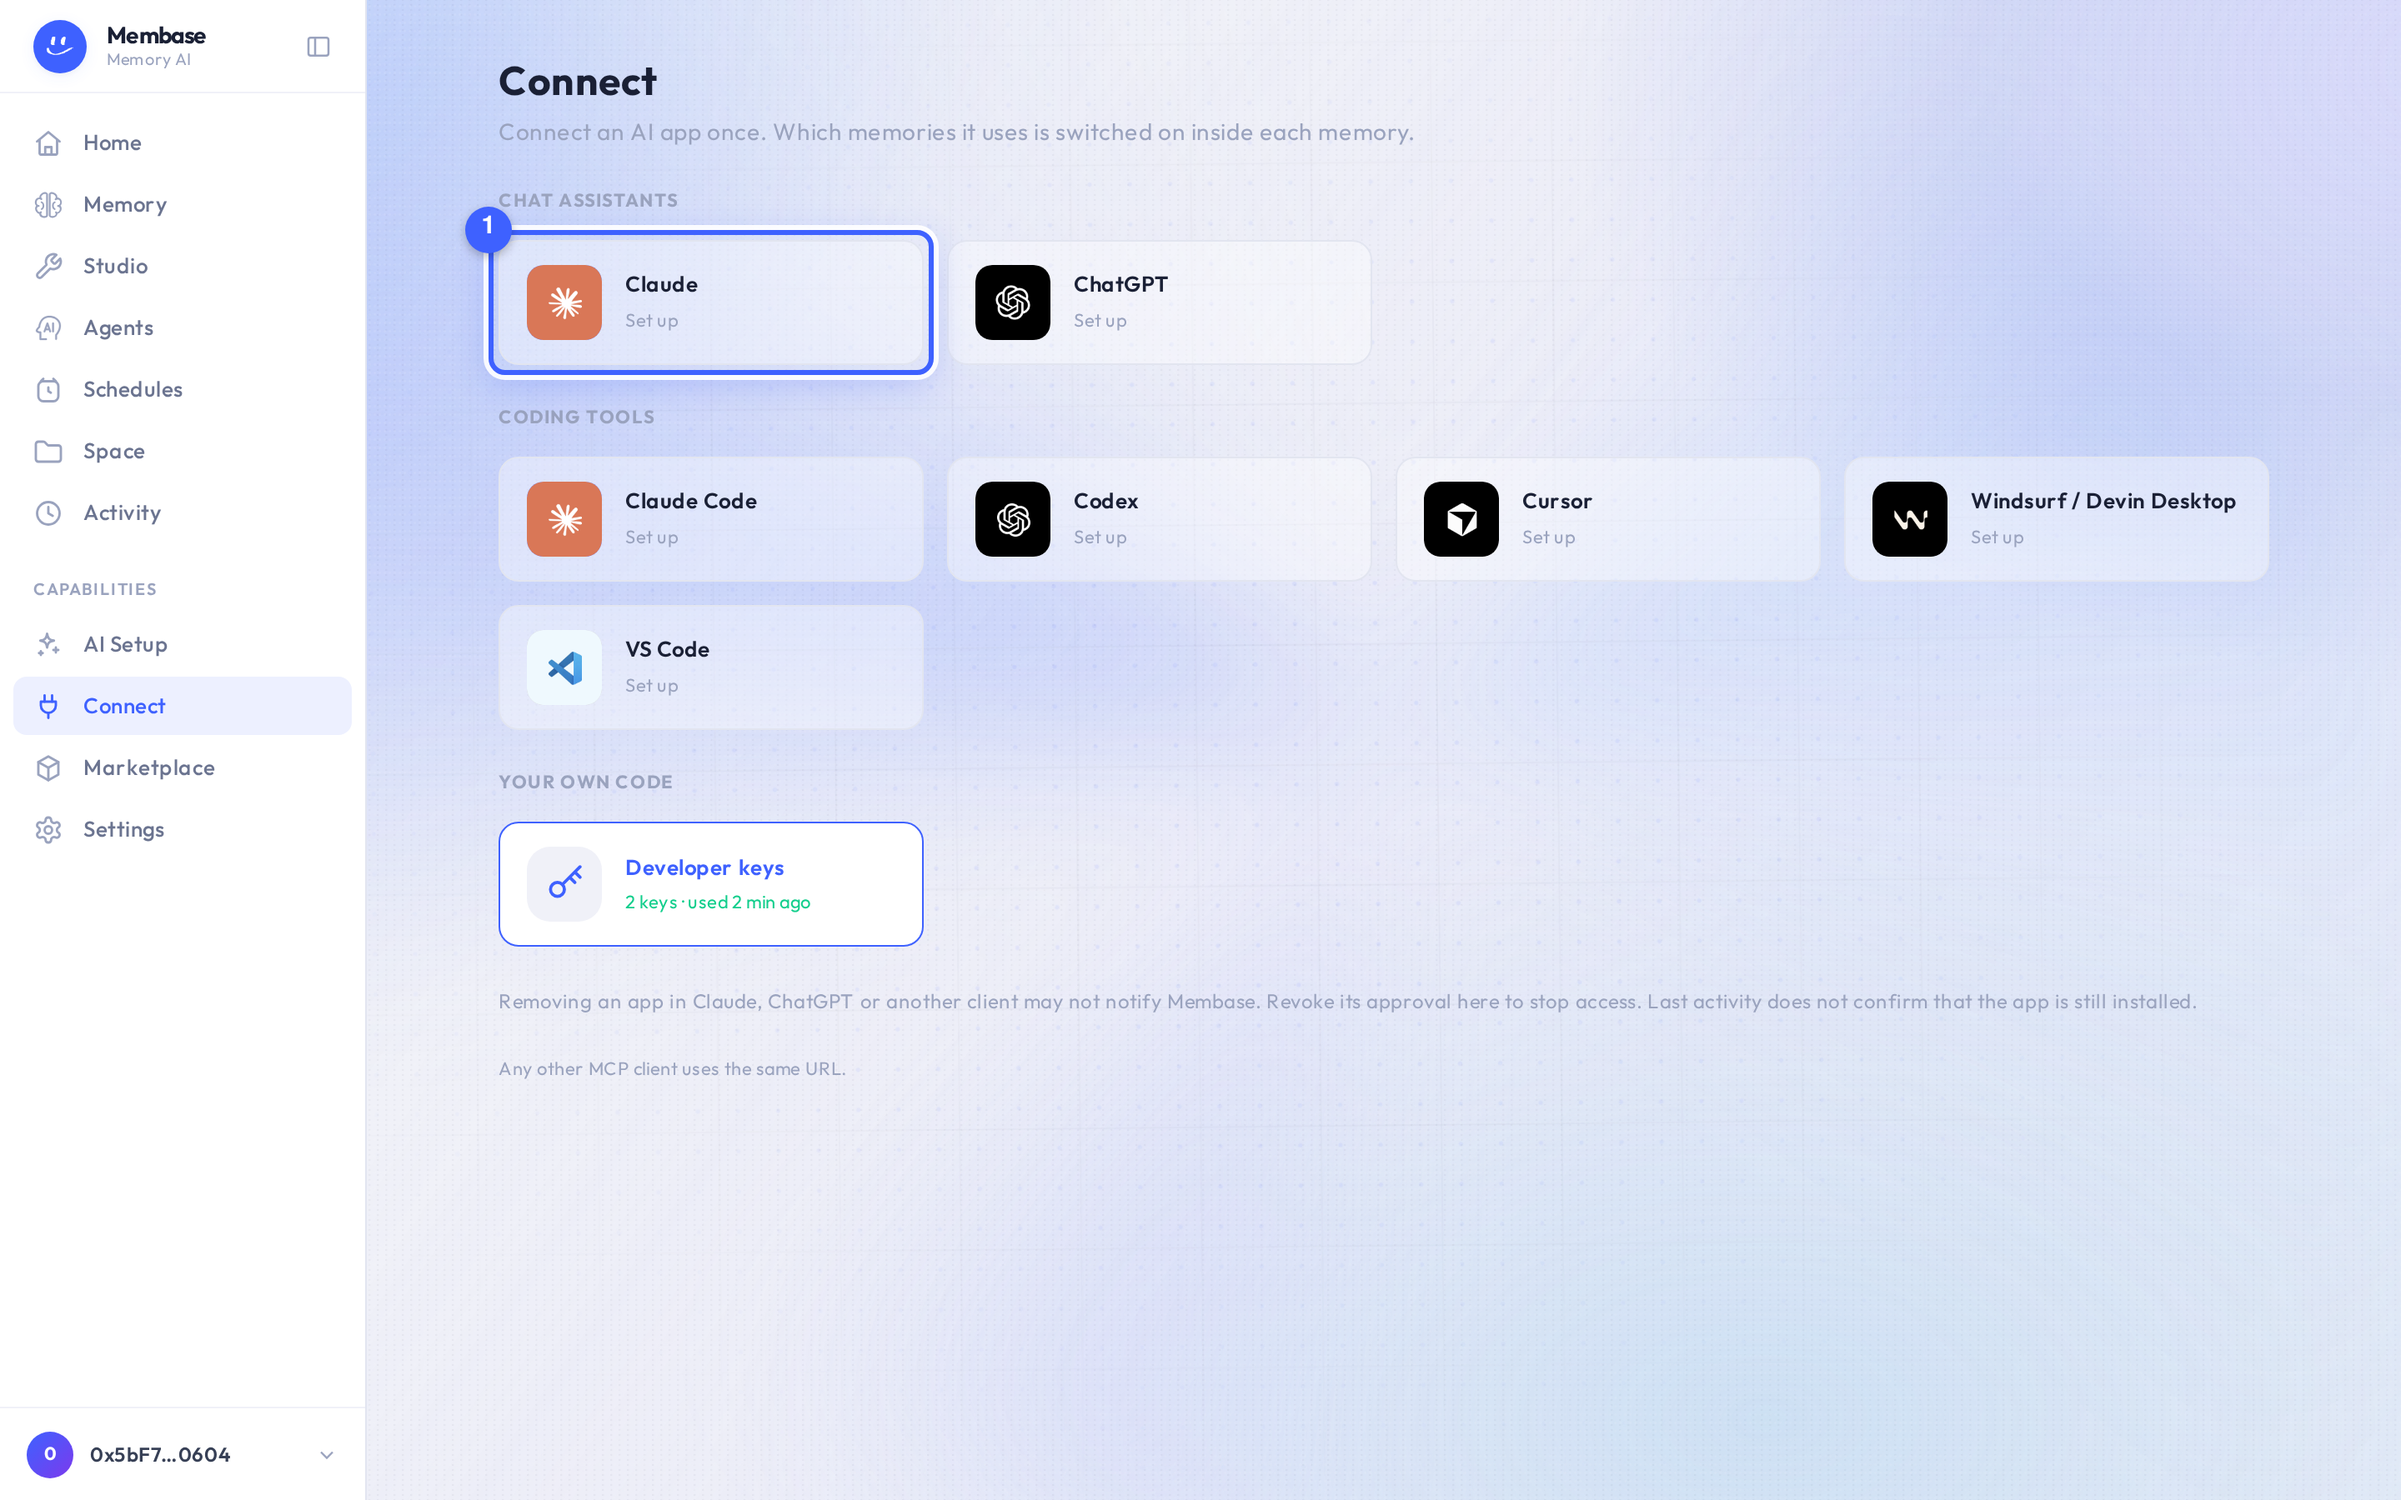
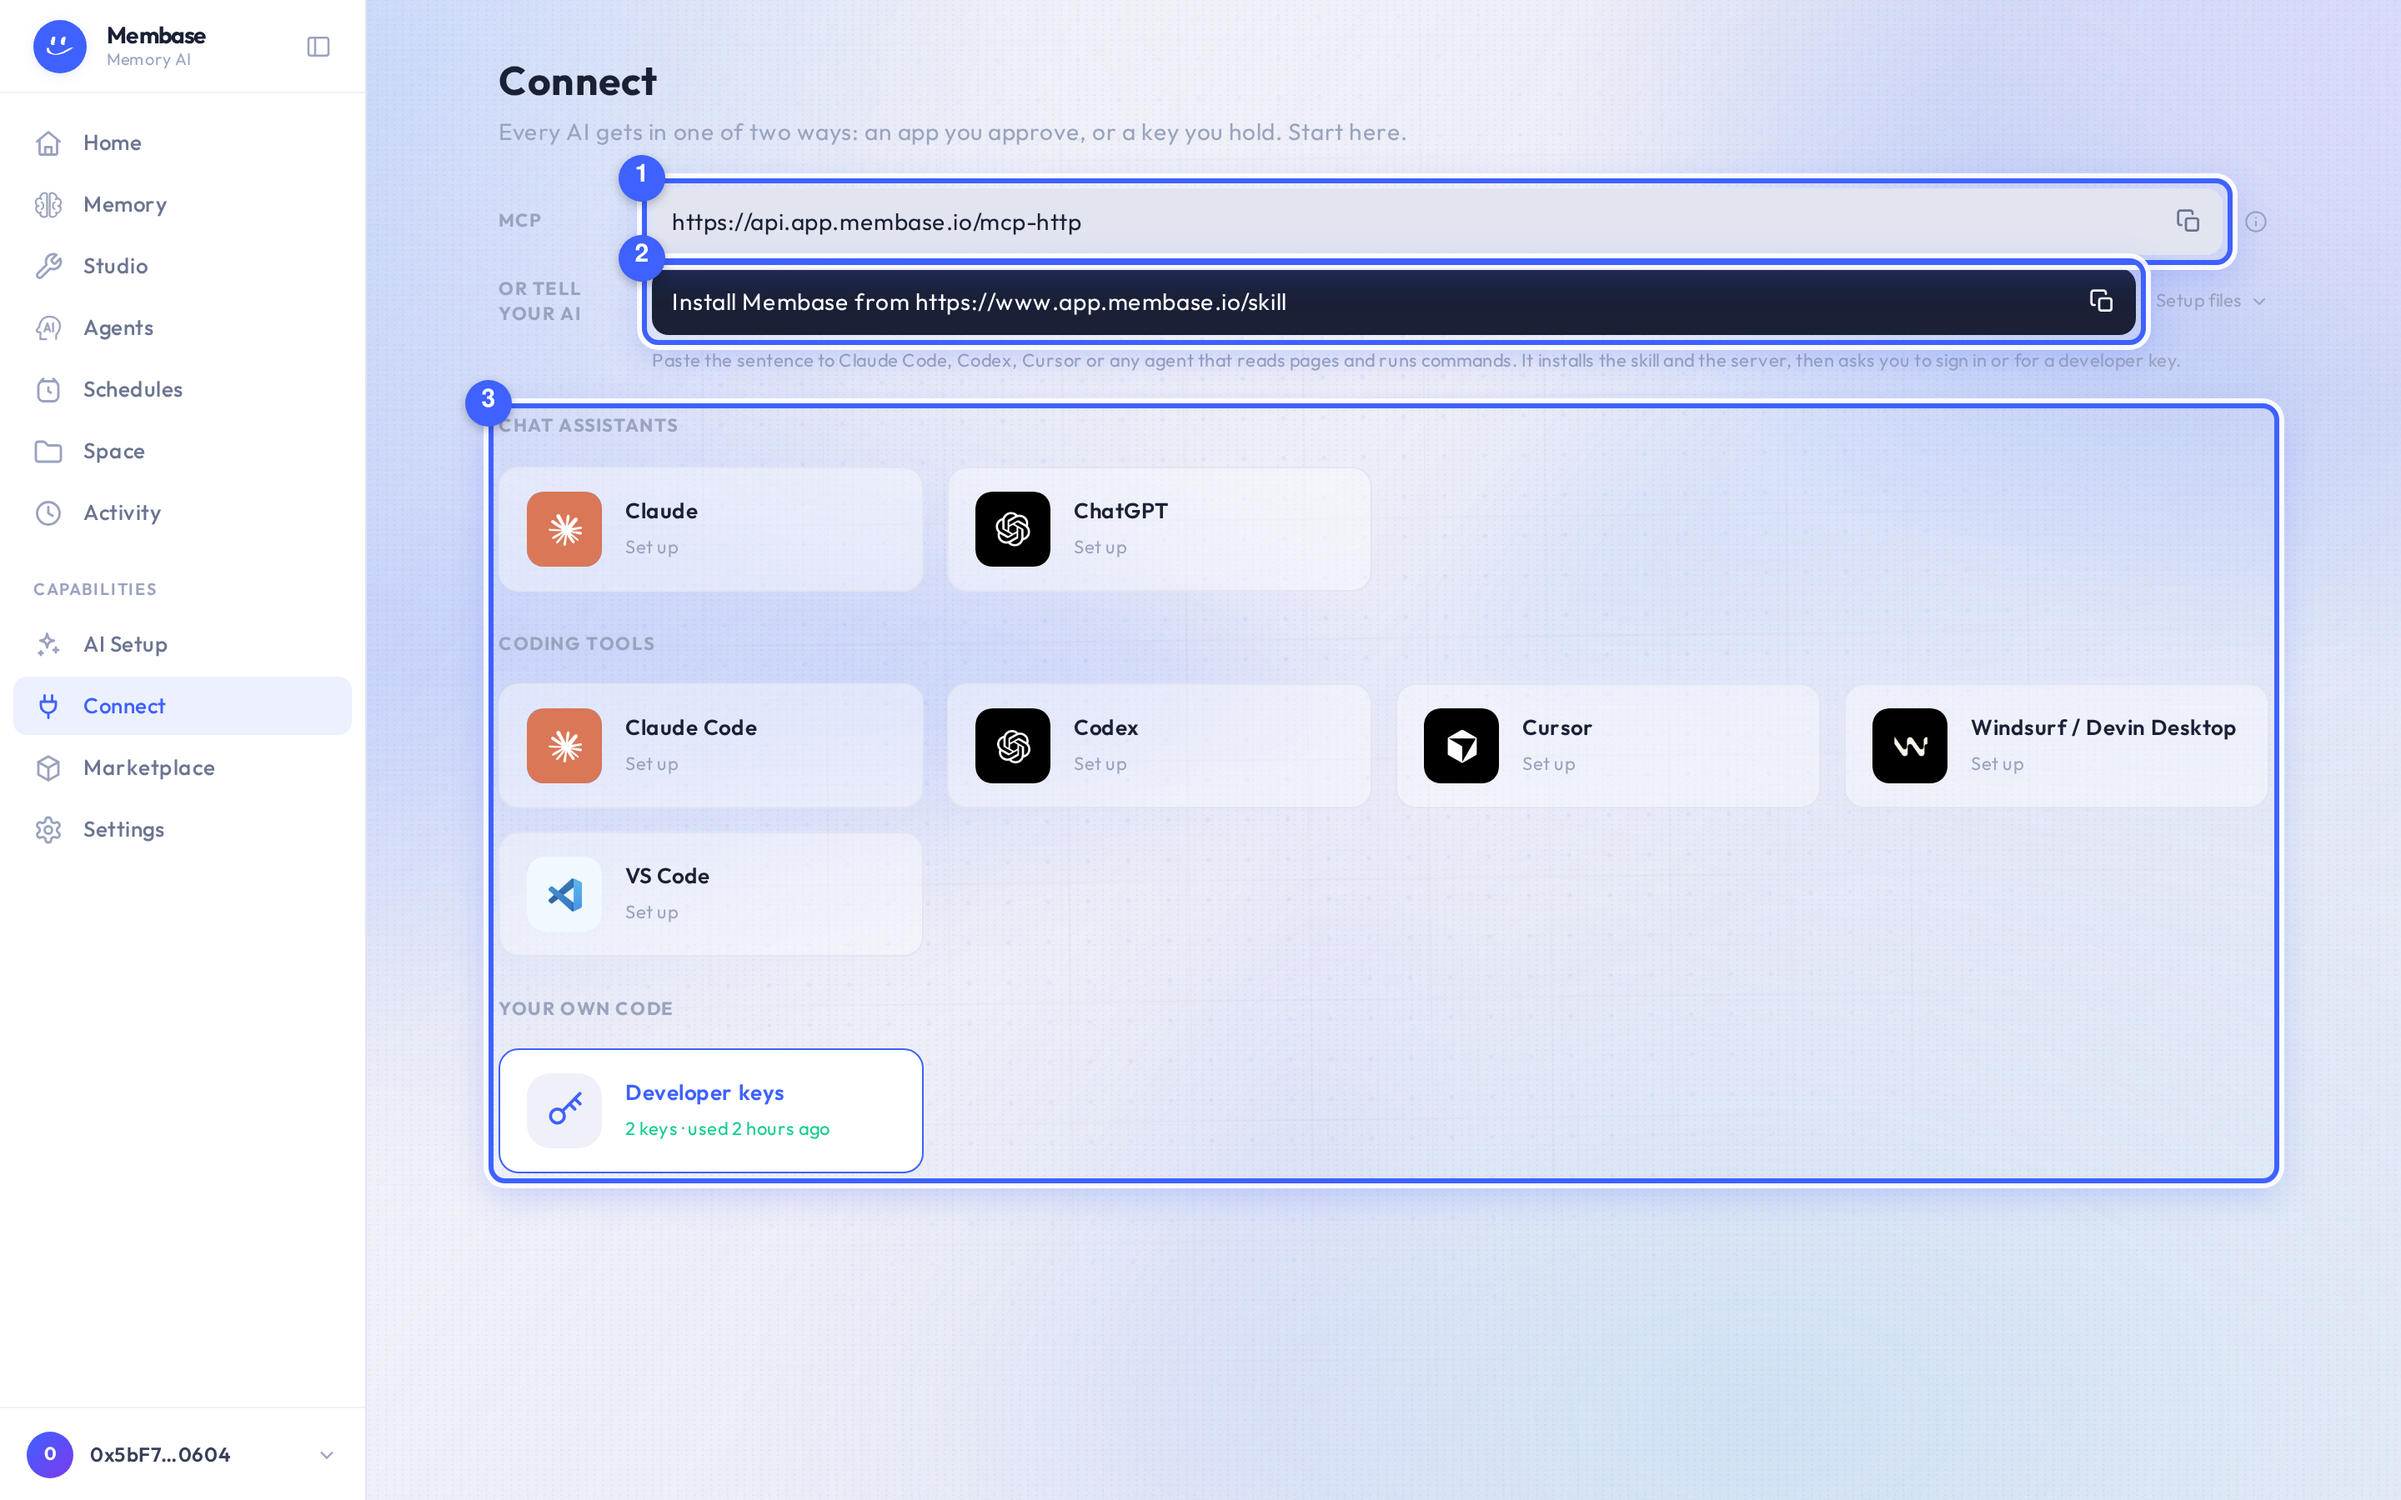
Sync user guide from membase-suites a6c4f371

diff --git a/pages/connect.md b/pages/connect.md
@@ -1,12 +1,47 @@
 # Connect
 
-Connect is where AI apps get permission to read your memories.
+Connect is where an AI gets permission to read your memories. Every AI gets in one of two ways:
+an **app you approve** in your browser, or a **developer key you hold**. The page is laid out in
+that order — the two ways to reach the door at the top, the approvals below.
 
 ![Connect](../shots/connect-page.png)
 
-1. **The client catalog, by purpose.** *Chat assistants* and *Coding tools*. A dashed tile says
-   *Set up*; a solid tile says *Connected* with the time of its last recall and opens the app's
-   page.
+1. **The address.** The MCP server every client uses. Copy it into an app's connector or MCP
+   settings when you set the app up by hand (the tiles below give the steps).
+2. **Or tell your AI.** One sentence — *Install Membase from https://www.app.membase.io/skill* —
+   for an AI that can read a page and run commands (Claude Code, Codex, Cursor, Windsurf…).
+   Paste it into the AI: it installs the Membase skill and the server itself, then asks you to
+   sign in or for a developer key. Neither the address nor the sentence grants anything; the
+   AI still ends up on one of the two approvals below.
+3. **The client catalog, by purpose.** *Chat assistants* and *Coding tools*. A dashed tile says
+   *Set up*; a solid tile says *Authorized* with the time of its last use and opens the app's
+   page. *Your own code* holds **Developer keys**.
+
+![Start here](../shots/connect-start.png)
+
+**Setup files** (3), at the end of the second row, unfolds what the sentence fetches, for hands
+that cannot run commands: the skill folder as a zip (for a Claude.ai upload or `~/.claude/skills/`),
+the `mcp.json` server block Cursor, Windsurf and Claude Desktop read, the VS Code and Codex
+snippets, the Claude Code command (with the developer-key variant), and the public API
+reference.
+
+## Tell your AI
+
+Paste the sentence into your AI. What happens next is the AI's work, but it always ends in the
+same two places:
+
+1. The AI reads the page at that address — the skill's own SKILL.md, which begins with install
+   steps — fetches the skill folder (SKILL.md and five references) and adds the MCP server for
+   its client.
+2. It has no access yet, and says so. It asks you which way you want to grant it:
+   - **Sign in** — the AI runs its client's MCP login, your browser opens the approval below,
+     you tick the memories it may read. It will be read-only.
+   - **Developer key** — you make one under **Developer keys** and paste the token to the AI.
+     You pick its access level.
+3. It makes one call to list the memories it may use and tells you the result. An empty list
+   means no memory is switched on for it yet: open the memory and switch it on under **Use in**.
+
+## Set an app up by hand
 
 Picking a dashed tile unfolds the connector URL and the steps for that app:
 
@@ -17,7 +52,7 @@ Picking a dashed tile unfolds the connector URL and the steps for that app:
 
 ## An app's page
 
-Once connected, the tile opens the app's page: the hero (name, *Connected · last recall*), a
+Once connected, the tile opens the app's page: the hero (name, *Authorized · last activity*), a
 **Uses** card with one row per memory and its switch, and, when there is more than one approval,
 an **Approvals** card with a **Revoke** per credential. **Disconnect…** in the hero revokes every
 approval at once.
@@ -46,7 +81,7 @@ access and reach in place, shows what it has been doing, and rotates or revokes 
 walkthrough is [Use your memory from code](../getting-started/developer-keys.md).
 
 Removing the connector inside Claude or ChatGPT does not tell Membase. To be sure access has
-stopped, revoke it here.
+stopped, open the app's page here and **Disconnect…**.
 
 ## If something looks wrong
 
@@ -57,7 +92,9 @@ Look up the word on screen.
 | *Set up* | this app is not connected | pick the tile and follow the steps |
 | *Uses nothing yet* (amber) | connected, but no memory switched on | turn a switch on under **Uses** |
 | the app cannot see a memory | its switch is off | memory page › **Use in** |
-| I removed the app in Claude but it still shows *Connected* | the app did not tell Membase | **Disconnect…** here |
+| I removed the app in Claude but it still shows *Authorized* | the app did not tell Membase | **Disconnect…** on the app's page |
+| *The MCP address is unavailable* | the page could not ask the server for it | reload; the sentence for your AI still works |
+| my AI installed the skill but says it has no access | installing grants nothing | answer its question: sign in, or give it a developer key |
 | a key's row says *Expired* | its token has lapsed | **⋯ › Create a similar key** on the Developer keys page |
 | the Developer keys tile says *For scripts and SDKs* | you have no active key | open it and press **Create key** |
 

diff --git a/index.md b/index.md
@@ -50,6 +50,6 @@ The [5-minute quickstart](getting-started/quickstart.md) does all three with a p
 | [Space](pages/space.md) | your files, and how a folder becomes a source |
 | [Activity](pages/activity.md) | what ran, when, with what result |
 | [AI Setup](pages/ai-setup.md) | model keys and subscriptions, and which one is active |
-| [Connect](pages/connect.md) | the AI apps that may read your memories, what they can see, and your developer keys |
+| [Connect](pages/connect.md) | the two ways an AI gets in — an app you approve, a key you hold — the one sentence that lets your AI set itself up, and your developer keys |
 | [Marketplace](pages/marketplace.md) | buying live access to someone's memory, and selling yours |
 | [Settings](pages/settings.md) | account, plan and payments, export, delete |
